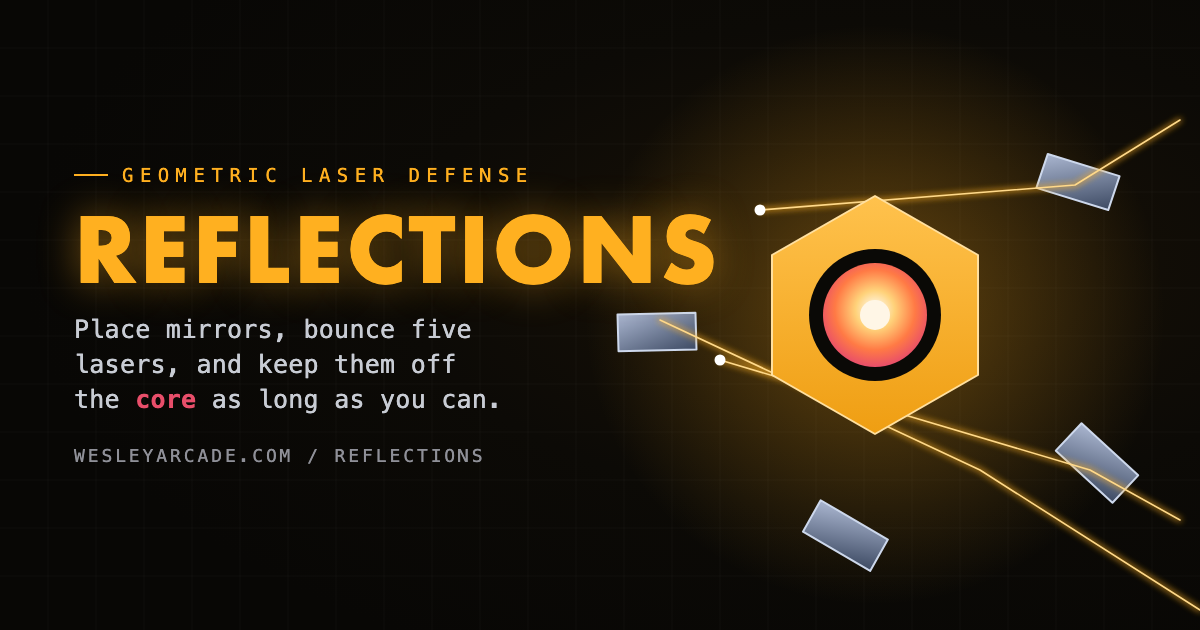
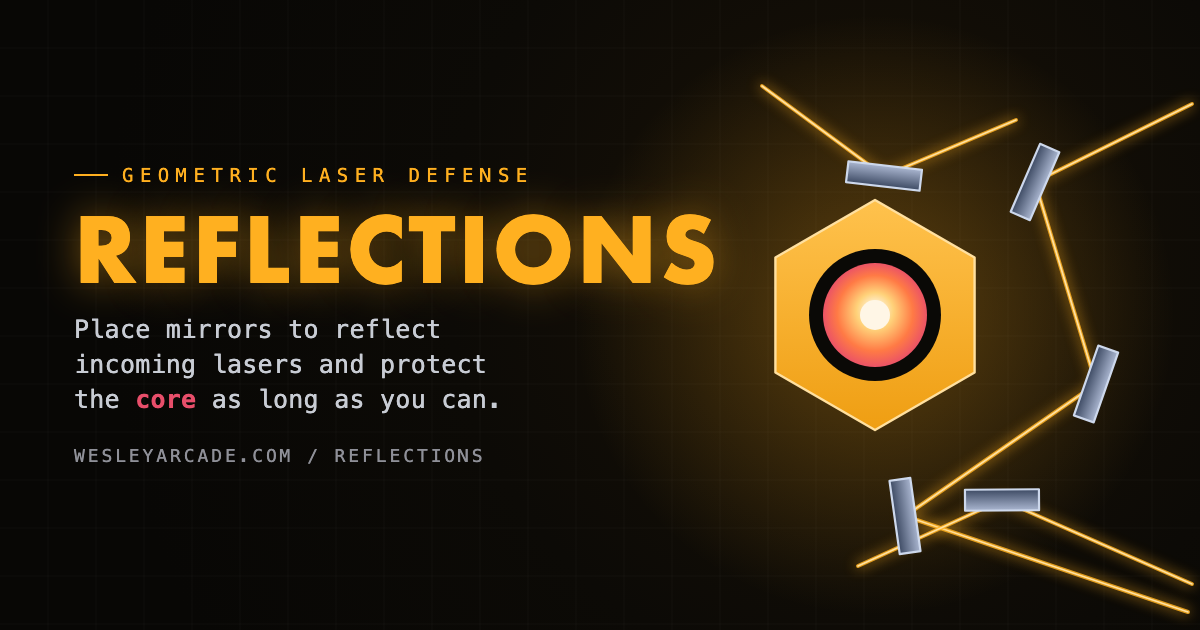
Share cards: lasers now reflect off the mirrors; update description
- Redraw both share cards (1.91:1 and 1:1) with a canvas scene where each laser
  is a path and mirrors auto-place at the bounce points, oriented along the
  reflection bisector — so beams visibly deflect off the mirrors instead of
  passing through them.
- New description everywhere: "Place mirrors to reflect incoming lasers and
  protect the core as long as you can." Bump asset cache version to v3.

diff --git a/index.html b/index.html
@@ -9,30 +9,30 @@
     <meta name="apple-mobile-web-app-status-bar-style" content="black-translucent">
     <title>Reflections</title>
     <!-- Favicon -->
-    <link rel="icon" type="image/svg+xml" href="/public/favicon.svg?v=2">
-    <link rel="icon" type="image/x-icon" href="/public/favicon.ico?v=2">
-    <link rel="icon" type="image/png" sizes="32x32" href="/public/favicon-32.png?v=2">
-    <link rel="icon" type="image/png" sizes="16x16" href="/public/favicon-16.png?v=2">
-    <link rel="apple-touch-icon" sizes="180x180" href="/public/apple-touch-icon.png?v=2">
+    <link rel="icon" type="image/svg+xml" href="/public/favicon.svg?v=3">
+    <link rel="icon" type="image/x-icon" href="/public/favicon.ico?v=3">
+    <link rel="icon" type="image/png" sizes="32x32" href="/public/favicon-32.png?v=3">
+    <link rel="icon" type="image/png" sizes="16x16" href="/public/favicon-16.png?v=3">
+    <link rel="apple-touch-icon" sizes="180x180" href="/public/apple-touch-icon.png?v=3">
     <meta name="theme-color" content="#0A0906">
     <link rel="manifest" href="/manifest.json">
     <!-- Open Graph / Social Sharing -->
     <meta property="og:type" content="website">
     <meta property="og:title" content="REFLECTIONS — Geometric Laser Defense">
-    <meta property="og:description" content="Place mirrors, bounce five lasers, and keep them off the core as long as you can.">
-    <meta property="og:image" content="/public/og-image.png?v=2">
+    <meta property="og:description" content="Place mirrors to reflect incoming lasers and protect the core as long as you can.">
+    <meta property="og:image" content="/public/og-image.png?v=3">
     <meta name="twitter:card" content="summary_large_image">
     <meta name="twitter:title" content="REFLECTIONS — Geometric Laser Defense">
-    <meta name="twitter:description" content="Place mirrors, bounce five lasers, and keep them off the core as long as you can.">
-    <meta name="twitter:image" content="/public/og-image.png?v=2">
-    <meta name="description" content="Place mirrors, bounce five lasers, and keep them off the core as long as you can.">
+    <meta name="twitter:description" content="Place mirrors to reflect incoming lasers and protect the core as long as you can.">
+    <meta name="twitter:image" content="/public/og-image.png?v=3">
+    <meta name="description" content="Place mirrors to reflect incoming lasers and protect the core as long as you can.">
     <!-- Modern professional fonts -->
     <link rel="preconnect" href="https://fonts.googleapis.com">
     <link rel="preconnect" href="https://fonts.gstatic.com" crossorigin>
     <link href="https://fonts.googleapis.com/css2?family=Orbitron:wght@400;500;600;700;800;900&family=Rajdhani:wght@300;400;500;600;700&family=Share+Tech+Mono&display=swap" rel="stylesheet">
     <!-- Iconoir Icons -->
     <link rel="stylesheet" href="https://cdn.jsdelivr.net/gh/iconoir-icons/iconoir@main/css/iconoir.css">
-    <link rel="stylesheet" href="/styles/game.css?v=25">
+    <link rel="stylesheet" href="/styles/game.css?v=35">
     <!-- mp4-muxer for native MP4 recording via WebCodecs -->
     <script src="https://cdn.jsdelivr.net/npm/mp4-muxer@5/build/mp4-muxer.min.js"></script>
     <!-- h264-mp4-encoder for WASM-based MP4 generation (mobile fallback) -->

diff --git a/about.html b/about.html
@@ -8,21 +8,21 @@
     <meta name="apple-mobile-web-app-capable" content="yes">
     <meta name="apple-mobile-web-app-status-bar-style" content="black-translucent">
     <title>About - REFLECTIONS</title>
-    <link rel="icon" type="image/svg+xml" href="/public/favicon.svg?v=2">
-    <link rel="icon" type="image/x-icon" href="/public/favicon.ico?v=2">
-    <link rel="icon" type="image/png" sizes="32x32" href="/public/favicon-32.png?v=2">
-    <link rel="icon" type="image/png" sizes="16x16" href="/public/favicon-16.png?v=2">
-    <link rel="apple-touch-icon" sizes="180x180" href="/public/apple-touch-icon.png?v=2">
+    <link rel="icon" type="image/svg+xml" href="/public/favicon.svg?v=3">
+    <link rel="icon" type="image/x-icon" href="/public/favicon.ico?v=3">
+    <link rel="icon" type="image/png" sizes="32x32" href="/public/favicon-32.png?v=3">
+    <link rel="icon" type="image/png" sizes="16x16" href="/public/favicon-16.png?v=3">
+    <link rel="apple-touch-icon" sizes="180x180" href="/public/apple-touch-icon.png?v=3">
     <meta name="theme-color" content="#0A0906">
     <link rel="manifest" href="/manifest.json">
     <meta property="og:type" content="website">
     <meta property="og:title" content="REFLECTIONS — About">
     <meta property="og:description" content="How the geometric laser-defense game works: place mirrors, deflect the lasers, defend the core.">
-    <meta property="og:image" content="/public/og-image.png?v=2">
+    <meta property="og:image" content="/public/og-image.png?v=3">
     <meta name="twitter:card" content="summary_large_image">
     <meta name="twitter:title" content="REFLECTIONS — About">
     <meta name="twitter:description" content="How the geometric laser-defense game works: place mirrors, deflect the lasers, defend the core.">
-    <meta name="twitter:image" content="/public/og-image.png?v=2">
+    <meta name="twitter:image" content="/public/og-image.png?v=3">
     <meta name="description" content="How the geometric laser-defense game works: place mirrors, deflect the lasers, defend the core.">
     <link rel="preconnect" href="https://fonts.googleapis.com">
     <link rel="preconnect" href="https://fonts.gstatic.com" crossorigin>

diff --git a/leaderboard.html b/leaderboard.html
@@ -9,22 +9,22 @@
     <meta name="apple-mobile-web-app-status-bar-style" content="black-translucent">
     <title>Leaderboard - REFLECTIONS</title>
     <!-- Favicon -->
-    <link rel="icon" type="image/svg+xml" href="/public/favicon.svg?v=2">
-    <link rel="icon" type="image/x-icon" href="/public/favicon.ico?v=2">
-    <link rel="icon" type="image/png" sizes="32x32" href="/public/favicon-32.png?v=2">
-    <link rel="icon" type="image/png" sizes="16x16" href="/public/favicon-16.png?v=2">
-    <link rel="apple-touch-icon" sizes="180x180" href="/public/apple-touch-icon.png?v=2">
+    <link rel="icon" type="image/svg+xml" href="/public/favicon.svg?v=3">
+    <link rel="icon" type="image/x-icon" href="/public/favicon.ico?v=3">
+    <link rel="icon" type="image/png" sizes="32x32" href="/public/favicon-32.png?v=3">
+    <link rel="icon" type="image/png" sizes="16x16" href="/public/favicon-16.png?v=3">
+    <link rel="apple-touch-icon" sizes="180x180" href="/public/apple-touch-icon.png?v=3">
     <meta name="theme-color" content="#0A0906">
     <link rel="manifest" href="/manifest.json">
     <!-- Open Graph / Social Sharing -->
     <meta property="og:type" content="website">
     <meta property="og:title" content="REFLECTIONS — Global Leaderboard">
     <meta property="og:description" content="See who's survived the longest. Place mirrors, deflect the lasers, defend the core.">
-    <meta property="og:image" content="/public/og-image.png?v=2">
+    <meta property="og:image" content="/public/og-image.png?v=3">
     <meta name="twitter:card" content="summary_large_image">
     <meta name="twitter:title" content="REFLECTIONS — Global Leaderboard">
     <meta name="twitter:description" content="See who's survived the longest. Place mirrors, deflect the lasers, defend the core.">
-    <meta name="twitter:image" content="/public/og-image.png?v=2">
+    <meta name="twitter:image" content="/public/og-image.png?v=3">
     <meta name="description" content="See who's survived the longest. Place mirrors, deflect the lasers, defend the core.">
     <link rel="preconnect" href="https://fonts.googleapis.com">
     <link rel="preconnect" href="https://fonts.gstatic.com" crossorigin>
